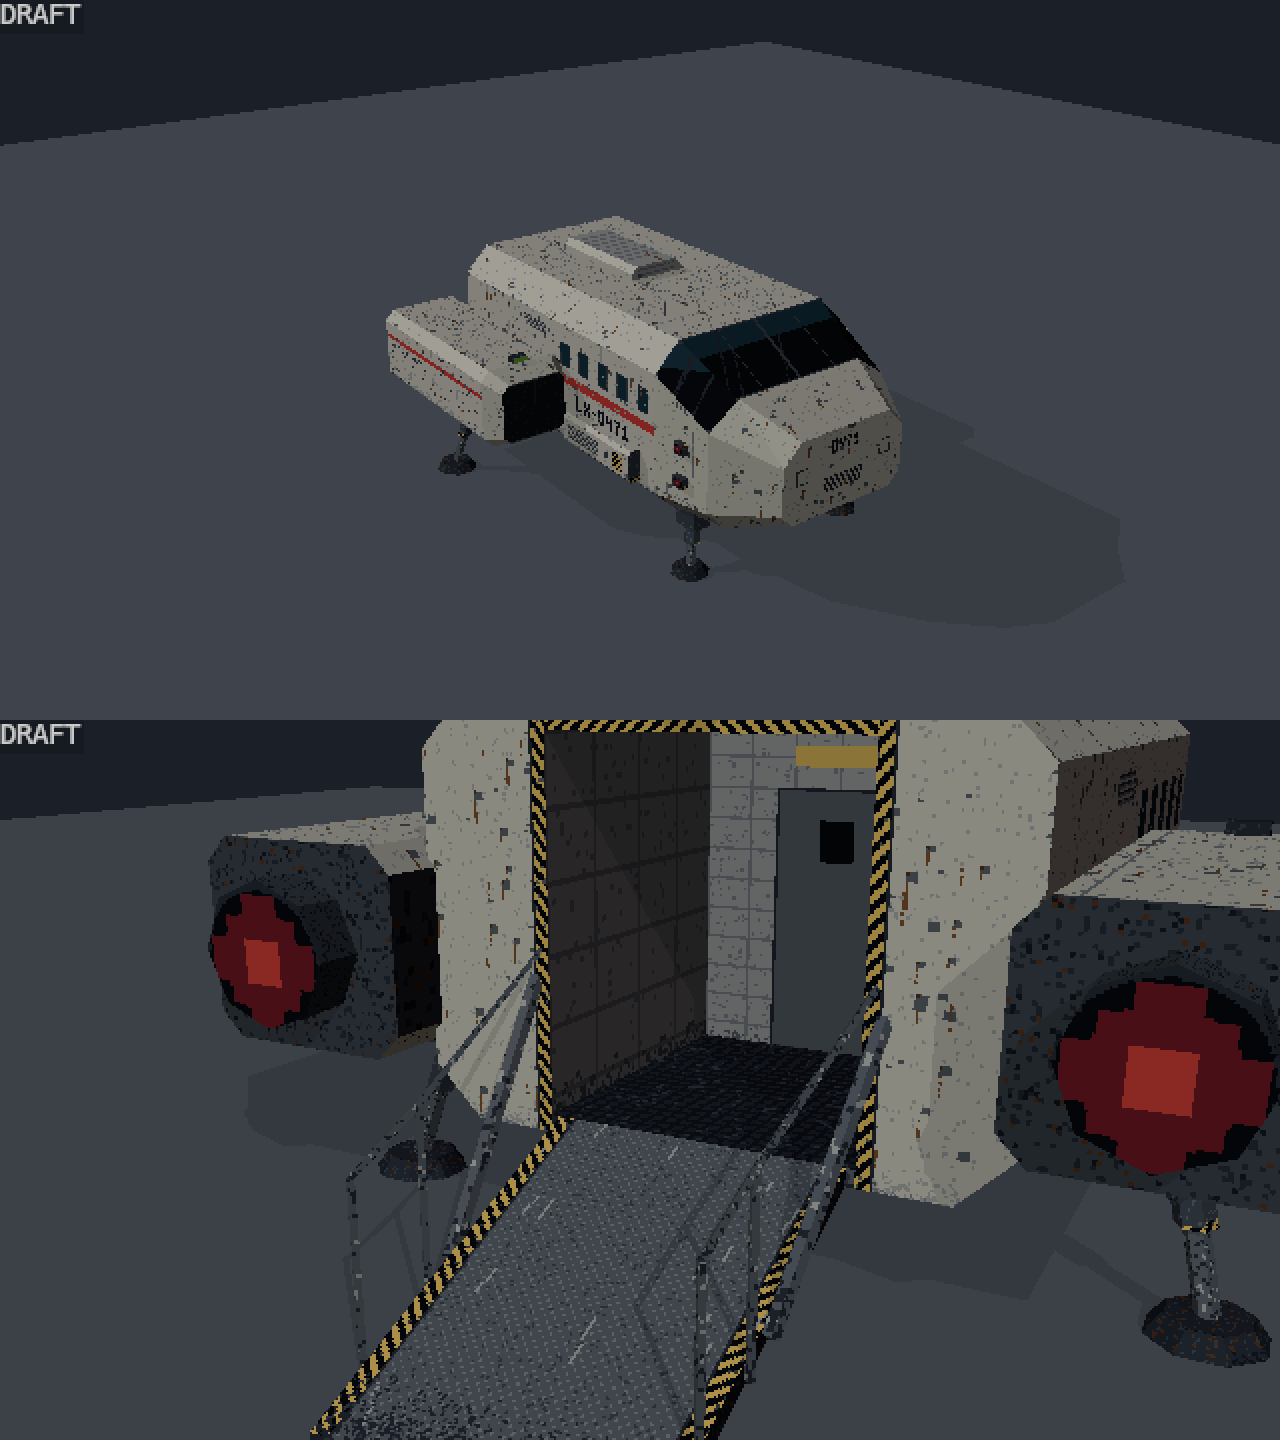
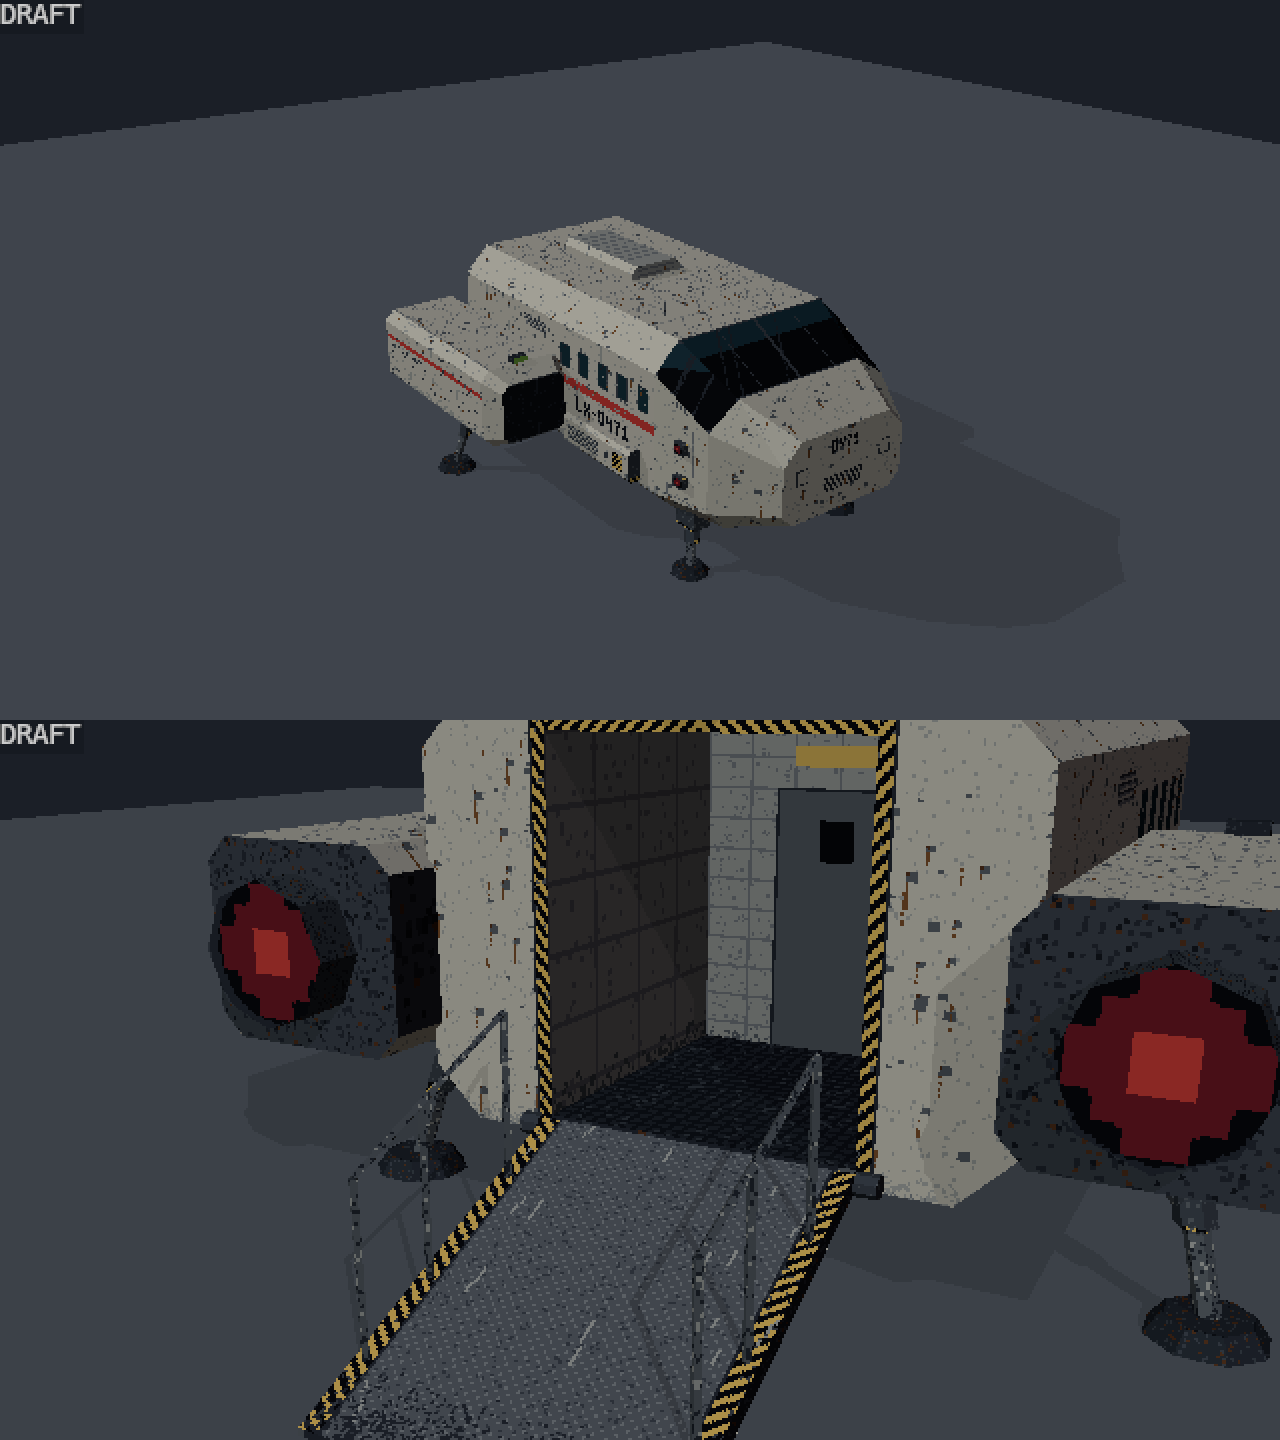
assets(P04): SM_Hangar_Shuttle, SM_Station_Hatch_Airlock (rework) - 818/298 tris, 2/1 material
Feedback 02.11. (M005 point 5): the shuttle's rear ramp is the child object Ramp with its pivot on the hinge
(localEulerAngles.x 0 = down, -112.8 = folded up, closing the rear door); the airlock hatch swings out into space,
pivot hinge_left on the hinge axis 5 cm behind the wall's space-side face, flush in the door wall when closed.
Status of both entries -> Vorschau. Lineup: docs/asset-previews/lineup_P04-rework-shuttle-hatch.png.

diff --git a/docs/ASSET-REQUESTS.md b/docs/ASSET-REQUESTS.md
@@ -354,7 +354,7 @@ feedback: []
 path: Assets/_Project/Art/Models/Station/SM_Station_Hatch_Airlock.fbx
 package: P04
 scene: Prüfkammer
-status: rework
+status: Vorschau
 priority: P1
 needed_by: 2026-11-12
 size_m: [1.6, 0.4, 2.2]
@@ -826,7 +826,7 @@ feedback: []
 path: Assets/_Project/Art/Models/Hangar/SM_Hangar_Shuttle.fbx
 package: P04
 scene: Hangar
-status: rework
+status: Vorschau
 priority: P1
 needed_by: 2026-11-16
 size_m: [6.0, 9.0, 3.5]
